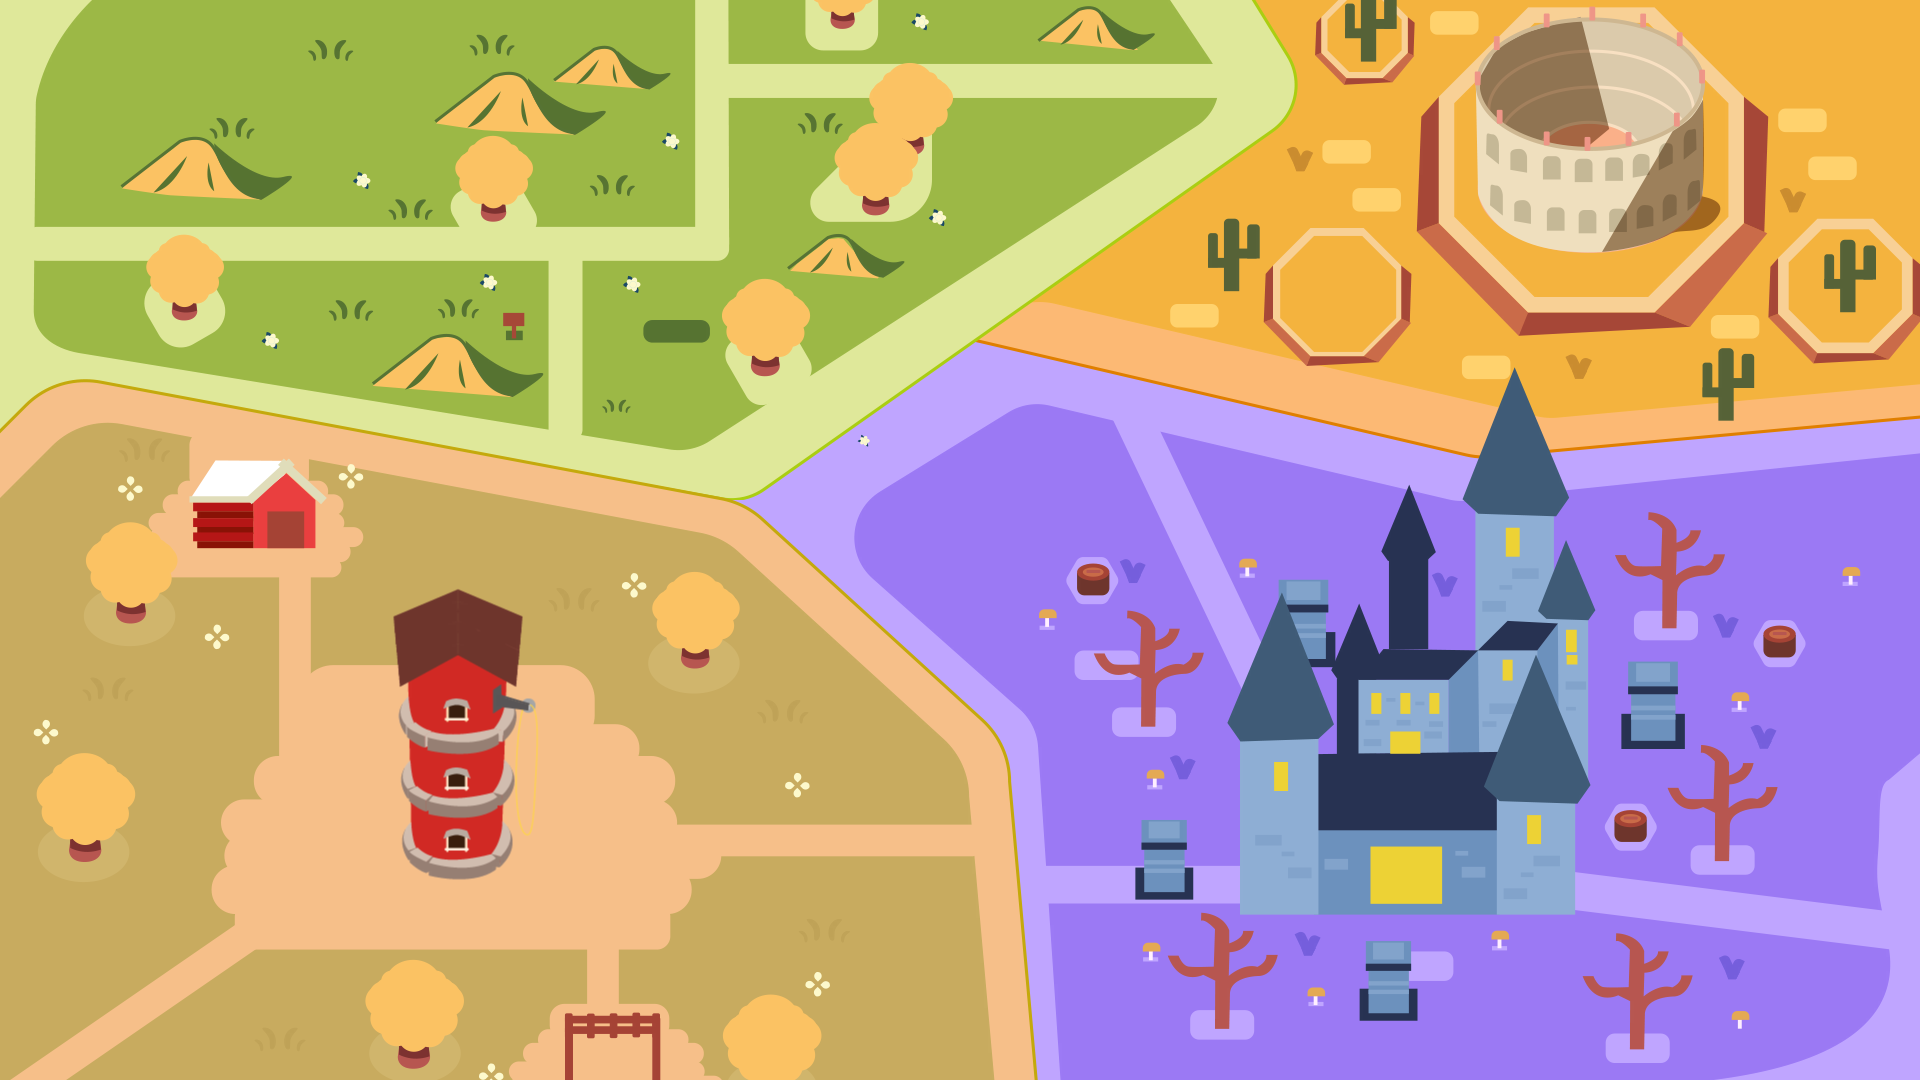
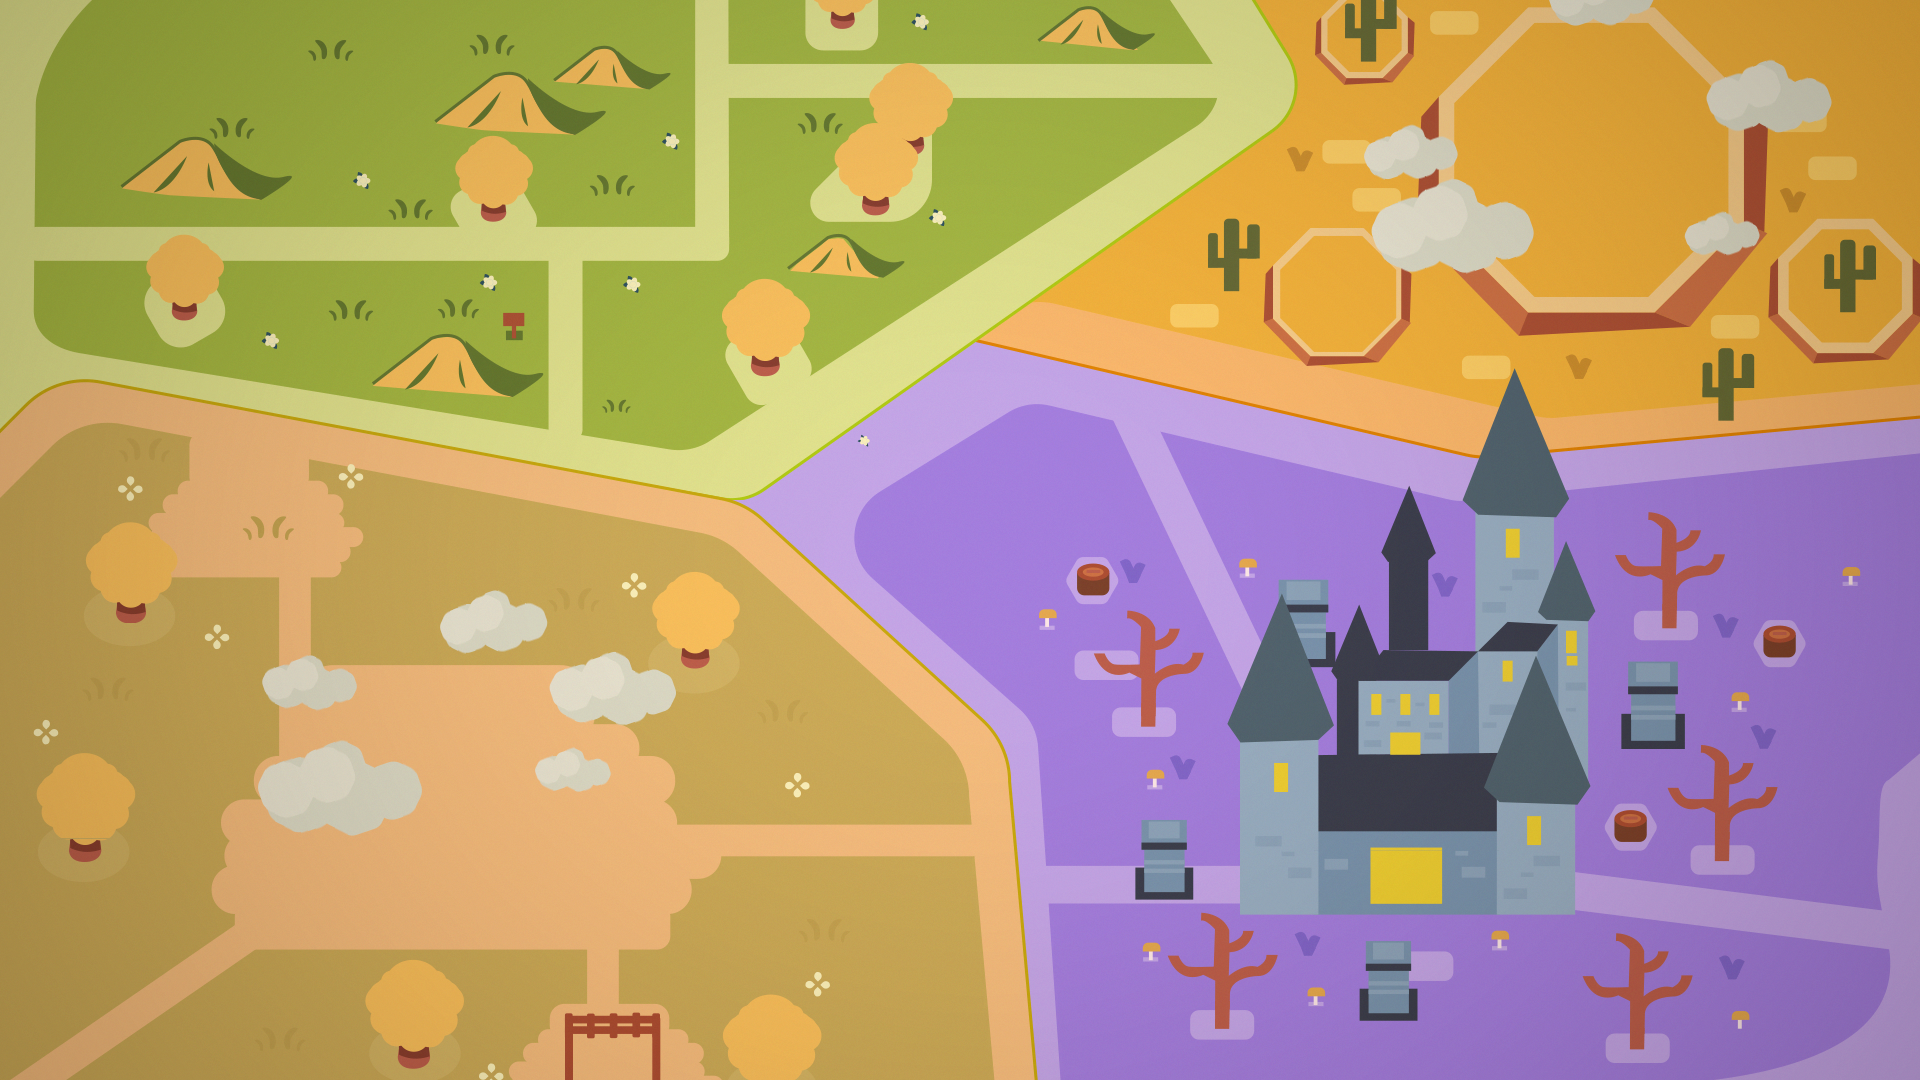
Imagen del Coliseo segun el estatus de la incursion

diff --git a/Scenes/PraderaScene.js b/Scenes/PraderaScene.js
@@ -9,6 +9,7 @@ export class Pradera extends Phaser.Scene{
     showAlert = false;
     alertVisible = false;
     isKeyboard = true;
+    coliseoImage;
     target = new Phaser.Math.Vector2();
     
     constructor(){
@@ -26,9 +27,15 @@ export class Pradera extends Phaser.Scene{
         this.load.image("map", "../src/images/Pradera/Mapa.png");
         this.load.image("arboles", "../src/images/Pradera/Arboles.png");
         this.load.image("edificiosSup", "../src/images/Pradera/Edificios_sup.png");
+        this.load.image("edificiosBase", "../src/images/Pradera/Edificios_base.png");
+        this.load.image("coliseoNormal", "../src/images/Pradera/Coliseo_normal.png");
+        this.load.image("coliseoReconstruccion", "../src/images/Pradera/Coliseo_reconstrucción.png");
+        this.load.image("coliseoBurrito", "../src/images/Pradera/Coliseo_jefe.png");
+        
         
         this.load.spritesheet("details", "../src/images/Pradera/Detalles.webp", {frameWidth: 1920, frameHeight: 1080});
         this.load.spritesheet("nubes", "../src/images/Pradera/Nubes.webp", {frameWidth: 1920, frameHeight: 1080});
+        this.load.spritesheet("coliseoIncursionWait", "../src/images/Pradera/Coliseo_inicio.webp", {frameWidth: 640, frameHeight: 640});
 
         //this.load.image("gloves", "../src/images/fightTest.png");
         this.load.image("buttonContainer3", "../src/images/button.png");
@@ -45,6 +52,30 @@ export class Pradera extends Phaser.Scene{
         //this.anims.create({ key: "waterLoop", frameRate: 24, frames: this.anims.generateFrameNumbers("water", { start: 0, end: 22 }), repeat: -1 });
         //this.add.sprite(0, 0, "water").play("waterLoop").setOrigin(0);
         this.map = this.add.image(0, 0, "map").setOrigin(0).setScale(1);
+        this.add.image(0, 0, "edificiosBase").setOrigin(0).setScale(1);
+        let incursion = await Near.GetActiveIncursion();
+        switch (incursion.status) {
+            case "Null":
+                this.coliseoImage = this.add.image(1475, 25, "coliseoNormal").setOrigin(0).setScale(1);
+                console.log("Null");
+                break;
+            case "WaitingPlayers":
+                this.anims.create({ key: "coliseoIncursionWaitLoop", frameRate: 30, frames: this.anims.generateFrameNumbers("coliseoIncursionWait", { start: 0, end: 74 }), repeat: -1 });
+                this.add.sprite(1265, -185, "coliseoIncursionWait").play("coliseoIncursionWaitLoop").setOrigin(0);
+                console.log("WaitingPlayers");
+                break;
+            case "InProgress":
+                this.coliseoImage = this.add.image(1475, 25, "coliseoBurrito").setOrigin(0).setScale(1);
+                console.log("InProgress");
+                break;
+            case "Finished":
+                this.coliseoImage = this.add.image(1475, 25, "coliseoDestruido").setOrigin(0).setScale(1);
+                console.log("Finished");
+                break;
+            default:
+                this.coliseoImage = this.add.image(1475, 25, "coliseoNormal").setOrigin(0).setScale(1);
+                break;  
+        }
         //this.map = this.physics.add.image(960, 540, "map");
         //this.anims.create({ key: "detailLoop", frameRate: 24, frames: this.anims.generateFrameNumbers("details", { start: 0, end: 22 }), repeat: -1 });
         //this.add.sprite(0, 0, "detail").play("detailLoop").setOrigin(0);
@@ -83,6 +114,7 @@ export class Pradera extends Phaser.Scene{
         if(this.burritoPlayer.hp <= 0)
             Swal.fire({ icon: 'info', title: 'Tu burrito se ha quedado sin vida', html: `El burrito seleccionado no cuenta suficiente vida, para continuar selecciona un burrito diferente para poder seguir navegando en el mapa o luchando`, confirmButtonText: 'Ir a establo' }).then(async (result) => { if (result.isConfirmed) this.scene.start("Establo"); });
 
+        console.log(await Near.GetActiveIncursion());
 
         this.burrito = this.physics.add.sprite(this.sys.game.scale.gameSize.width / 2, this.sys.game.scale.gameSize.height / 2, "miniBurrito", 0).setOrigin(0.5).setScale(1).setCollideWorldBounds(true);
         this.physics.world.enable(this.burrito);
@@ -102,9 +134,9 @@ export class Pradera extends Phaser.Scene{
 
         this.button = new Helpers.Button(this.sys.game.scale.gameSize.width / 2,  60, 0.5, "buttonContainer3", "Volver a menu principal", this, this.BackToMainMenu, null, {fontSize: 24, fontFamily: "BangersRegular"});
 
-        this.anims.create({ key: "detailLoop", frameRate: 24, frames: this.anims.generateFrameNumbers("details", { start: 0, end: 22 }), repeat: -1 });
+        this.anims.create({ key: "detailLoop", frameRate: 24, frames: this.anims.generateFrameNumbers("details", { start: 0, end: 29 }), repeat: -1 });
         this.add.sprite(0, 0, "detail").play("detailLoop").setOrigin(0);
-        this.anims.create({ key: "nubesLoop", frameRate: 24, frames: this.anims.generateFrameNumbers("nubes", { start: 0, end: 22 }), repeat: -1 });
+        this.anims.create({ key: "nubesLoop", frameRate: 24, frames: this.anims.generateFrameNumbers("nubes", { start: 0, end: 29 }), repeat: -1 });
         this.add.sprite(0, 0, "nubes").play("nubesLoop").setOrigin(0);
 
         this.hudTokens = new Helpers.TokenHud(200, 200, this, await Near.GetAccountBalance(), await Near.GetSTRWToken());
@@ -186,9 +218,23 @@ export class Pradera extends Phaser.Scene{
         this.physics.add.overlap(this.coliseo, this.burrito, ()=>{ 
             //this.ShowAlert("El colisio continua en construccion", "Esta es una nueva mecanica que se esta implementado actualmente", null )
             if(this.alertVisible == false){
-                let alert = new Helpers.Alert(960, 540, this, 0.8, "El coliseo continua en construccion.\n\nEsta es una nueva mecanica que se esta \nimplementado actualmente.");
-                let button2 = new Helpers.Button(968, 820, 0.4, "buttonContainer3", "Aceptar", this, () => {
+                let alert = new Helpers.Alert(960, 540, this, 0.8, "El coliseo esta listo para iniciar una incursión.\n\nLas incursiones son eventos que permiten a los\njugadores colaborar entre ellos en contra de un\nenemigo de mayor poder.\n\n¿Quieres iniciar una nueva incursión?");
+                let button1 = new Helpers.Button(800, 820, 0.4, "buttonContainer3", "Iniciar incursion", this, async () => {
                     alert.GetComponents().destroy();
+                    button1.GetComponents().destroy();
+                    button2.GetComponents().destroy();
+                    this.loadingScreen = new Helpers.LoadingScreen(this);
+                    await Near.CreateIncursion();
+                    console.log(await Near.GetActiveIncursion());
+                    this.coliseoImage.visible = false;
+                    this.anims.create({ key: "coliseoLoop", frameRate: 24, frames: this.anims.generateFrameNumbers("coliseoIncursionWait", { start: 0, end: 74 }), repeat: -1 });
+                    this.add.sprite(1265, -185, "coliseoIncursionWait").play("coliseoLoop").setOrigin(0);
+                    await this.loadingScreen.OnComplete();
+
+            }, null, {fontSize: 30, fontFamily: "BangersRegular"});
+                let button2 = new Helpers.Button(1130, 820, 0.4, "buttonContainer3", "Cancelar", this, () => {
+                    alert.GetComponents().destroy();
+                    button1.GetComponents().destroy();
                     button2.GetComponents().destroy();
                     //this.alertVisible = false;
             }, null, {fontSize: 30, fontFamily: "BangersRegular"});
@@ -444,7 +490,8 @@ export class Pradera extends Phaser.Scene{
         if(this.burrito.anims.isPlaying)
             this.burrito.stop();
     }
-    BackToMainMenu = () => {
+    BackToMainMenu = async () => {
+        await Near.DeleteAllIncursions();
         localStorage.removeItem("lastScene");
         this.scene.start("MainMenu");
     }

diff --git a/src/near.js b/src/near.js
@@ -20,6 +20,7 @@ const contract_id_burritos = "dev-1652924595303-59024384289373";
 const contract_id_strw_tokens = "dev-1653415145729-47929415561597";
 const contract_id_items = "dev-1647986467816-61735125036881";
 const contract_id_PVEBattle = "dev-1652376335913-86387308955071";
+const contract_id_incursion = "dev-1655916888750-29236034652789";
 
 const provider = new providers.JsonRpcProvider(
   "https://archival-rpc.testnet.near.org"
@@ -44,7 +45,12 @@ const contract_PVEBattle = new Contract(wallet.account(), contract_id_PVEBattle,
     viewMethods: [ "is_in_battle",  ],
     changeMethods: [ "create_battle_player_cpu", "battle_player_cpu", "get_battle_active", "surrender_cpu" ],
     sender: wallet.account()
-})
+});
+const contract_incursion = new Contract(wallet.account(), contract_id_incursion, {
+    viewMethods: ["get_active_incursion"],
+    changeMethods: ["create_incursion", "delete_all_incursions", "start_active_incursion", "finish_active_incursion"],
+    sender: wallet.account()
+});
 
 export function Login() {
     wallet.requestSignIn(
@@ -296,4 +302,21 @@ export async function BuyTokens(){
         300000000000000, 
         utils.format.parseNearAmount("1")
     );
+}
+export async function GetActiveIncursion(){
+    let result = await contract_incursion.get_active_incursion({});
+    return result;
+}
+export async function CreateIncursion(){
+    let result = await contract_incursion.create_incursion({}, 300000000000000);
+    return result;
+}
+export async function DeleteAllIncursions(){
+    let result = await contract_incursion.delete_all_incursions({}, 300000000000000);
+}
+export async function StartActiveIncursion(){
+    let result = await contract_incursion.start_active_incursion({}, 300000000000000);
+}
+export async function FinishActiveIncursion(){
+    let result = await contract_incursion.finish_active_incursion({}, 300000000000000);
 }
